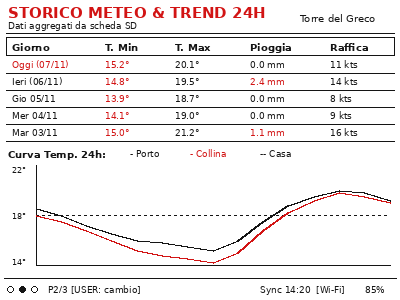
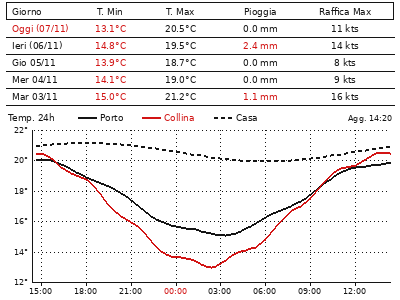
docs(readme): describe the Torre del Greco fork and redraw the history mockup
Rewrite the README intro for esp32-weather-epd-it80059: the two local
stations (Collina, Porto), the three pages, SD logging, the refresh
cycle, a quick start for the NM-EPD-420 and credits.
Point the setup guide at secrets.h for WiFi and the OWM key.

Regenerate screen1_history.png from the firmware's current layout:
no header or status bar, full-screen 24 h chart with hour axis and
the Porto, Collina and indoor lines.

diff --git a/mock_ui/preview_new_screens.py b/mock_ui/preview_new_screens.py
@@ -138,78 +138,131 @@ def render_screen0():
     img.save("mock_ui/screen0_dashboard.png")
     print("Generated mock_ui/screen0_dashboard.png")
 
+def _trend_line(draw, x0, y0, x1, y1, color, dash_on=0, dash_off=0, phase=0):
+    """2 px line, optionally dashed, mirroring drawTrendLine() in renderer.cpp."""
+    dx, dy = x1 - x0, y1 - y0
+    steps = max(abs(dx), abs(dy))
+    for k in range(steps + 1):
+        x = x0 + (dx * k) // steps if steps else x0
+        y = y0 + (dy * k) // steps if steps else y0
+        on = True
+        if dash_on > 0:
+            on = (phase % (dash_on + dash_off)) < dash_on
+            if k < steps:
+                phase += 1
+        if on:
+            draw.point([(x, y), (x, y + 1)], fill=color)
+    return phase
+
 def render_screen1():
+    """History page as drawn by drawScreen1_History(): no header or status
+    bar, table on top, full-width 24 h chart with an hour axis."""
     img = Image.new("RGB", (W, H), WHITE)
     draw = ImageDraw.Draw(img)
     fonts = get_fonts()
+    f6, f5 = fonts["small"], fonts["tiny"]
 
-    # Header
-    draw.text((8, 4), "STORICO METEO & TREND 24H", fill=RED, font=fonts["title"])
-    draw.text((8, 20), "Dati aggregati da scheda SD", fill=BLACK, font=fonts["small"])
-    draw.text((W - 100, 12), "Torre del Greco", fill=BLACK, font=fonts["sub"])
-    draw.line([(6, 33), (W - 6, 33)], fill=BLACK, width=1)
-
-    # Table
-    draw.rectangle([6, 37, 394, 55], outline=BLACK)
-    draw.text((12, 41), "Giorno", fill=BLACK, font=fonts["bold_sm"])
-    draw.text((105, 41), "T. Min", fill=BLACK, font=fonts["bold_sm"])
-    draw.text((175, 41), "T. Max", fill=BLACK, font=fonts["bold_sm"])
-    draw.text((250, 41), "Pioggia", fill=BLACK, font=fonts["bold_sm"])
-    draw.text((330, 41), "Raffica", fill=BLACK, font=fonts["bold_sm"])
+    # 1. Table (y = 2 to 107); text y values are baselines, as in the firmware
+    draw.rectangle([6, 2, 393, 19], outline=BLACK)
+    draw.text((12, 15), "Giorno", fill=BLACK, font=f6, anchor="ls")
+    for x, t in ((110, "T. Min"), (180, "T. Max"), (260, "Pioggia"), (345, "Raffica Max")):
+        draw.text((x, 15), t, fill=BLACK, font=f6, anchor="ms")
 
     rows = [
-        ("Oggi (07/11)", "15.2°", "20.1°", "0.0 mm", "11 kts", True),
-        ("Ieri (06/11)", "14.8°", "19.5°", "2.4 mm", "14 kts", False),
-        ("Gio 05/11", "13.9°", "18.7°", "0.0 mm", "8 kts", False),
-        ("Mer 04/11", "14.1°", "19.0°", "0.0 mm", "9 kts", False),
-        ("Mar 03/11", "15.0°", "21.2°", "1.1 mm", "16 kts", False),
+        ("Oggi (07/11)", 13.1, 20.5, 0.0, 11),
+        ("Ieri (06/11)", 14.8, 19.5, 2.4, 14),
+        ("Gio 05/11", 13.9, 18.7, 0.0, 8),
+        ("Mer 04/11", 14.1, 19.0, 0.0, 9),
+        ("Mar 03/11", 15.0, 21.2, 1.1, 16),
     ]
+    row_y = 20
+    for i, (day, tmin, tmax, rain, gust) in enumerate(rows):
+        by = row_y + 12
+        draw.text((12, by), day, fill=RED if i == 0 else BLACK, font=f6, anchor="ls")
+        draw.text((110, by), f"{tmin:.1f}°C", fill=RED, font=f6, anchor="ms")
+        draw.text((180, by), f"{tmax:.1f}°C", fill=BLACK, font=f6, anchor="ms")
+        draw.text((260, by), f"{rain:.1f} mm", fill=RED if rain > 0 else BLACK, font=f6, anchor="ms")
+        draw.text((345, by), f"{gust} kts", fill=BLACK, font=f6, anchor="ms")
+        draw.line([(6, row_y + 17), (394, row_y + 17)], fill=BLACK)
+        row_y += 17
 
-    y = 57
-    for day, tmin, tmax, rain, wind, is_today in rows:
-        draw.line([(6, y + 16), (394, y + 16)], fill=BLACK, width=1)
-        draw.text((12, y + 2), day, fill=RED if is_today else BLACK, font=fonts["small"])
-        draw.text((105, y + 2), tmin, fill=RED, font=fonts["small"])
-        draw.text((175, y + 2), tmax, fill=BLACK, font=fonts["small"])
-        draw.text((250, y + 2), rain, fill=RED if rain != "0.0 mm" else BLACK, font=fonts["small"])
-        draw.text((330, y + 2), wind, fill=BLACK, font=fonts["small"])
-        y += 17
+    # 2. Legend + sync time (the status bar is hidden on this page)
+    leg_y = 121
+    lx = 8
+    draw.text((lx, leg_y), "Temp. 24h", fill=BLACK, font=f6, anchor="ls")
+    lx += 70
+    _trend_line(draw, lx, leg_y - 4, lx + 18, leg_y - 4, BLACK)
+    draw.text((lx + 22, leg_y), "Porto", fill=BLACK, font=f6, anchor="ls")
+    lx += 64
+    _trend_line(draw, lx, leg_y - 4, lx + 18, leg_y - 4, RED)
+    draw.text((lx + 22, leg_y), "Collina", fill=RED, font=f6, anchor="ls")
+    lx += 72
+    _trend_line(draw, lx, leg_y - 4, lx + 18, leg_y - 4, BLACK, 4, 3)
+    draw.text((lx + 22, leg_y), "Casa", fill=BLACK, font=f6, anchor="ls")
+    draw.text((W - 8, leg_y), "Agg. 14:20", fill=BLACK, font=f5, anchor="rs")
 
-    # 24h Graph
-    draw.text((8, 148), "Curva Temp. 24h:", fill=BLACK, font=fonts["bold_sm"])
-    draw.text((130, 148), "- Porto", fill=BLACK, font=fonts["small"])
-    draw.text((190, 148), "- Collina", fill=RED, font=fonts["small"])
-    draw.text((260, 148), "-- Casa", fill=BLACK, font=fonts["small"])
+    # 3. 24 h chart: 72 samples every 20 min, ending at 14:20
+    gx0, gx1, gy0, gy1 = 32, 390, 130, 282
+    end_min = 14 * 60 + 20
+    start_min = end_min - 24 * 60
+    times = [start_min + 20 * (i + 1) for i in range(72)]
 
-    gx0, gy0, gx1, gy1 = 36, 165, 390, 265
-    draw.line([(gx0, gy1), (gx1, gy1)], fill=BLACK, width=1)
-    draw.line([(gx0, gy0), (gx0, gy1)], fill=BLACK, width=1)
+    def diurnal(t, mean, amp, peak_h=14.5):
+        h = (t / 60.0) % 24
+        return mean + amp * math.cos((h - peak_h) / 24.0 * 2 * math.pi)
 
-    draw.text((12, gy0), "22°", fill=BLACK, font=fonts["tiny"])
-    draw.text((12, (gy0+gy1)//2 - 4), "18°", fill=BLACK, font=fonts["tiny"])
-    draw.text((12, gy1 - 8), "14°", fill=BLACK, font=fonts["tiny"])
+    porto = [diurnal(t, 17.6, 2.4) + 0.15 * math.sin(t / 47.0) for t in times]
+    collina = [diurnal(t, 16.8, 3.6, 14.0) + 0.2 * math.sin(t / 31.0) for t in times]
+    casa = [diurnal(t, 20.6, 0.6, 18.0) for t in times]
+    series = [(porto, BLACK, 0, 0), (collina, RED, 0, 0), (casa, BLACK, 4, 3)]
 
-    # Dotted mid line
-    mid_y = (gy0 + gy1) // 2
-    for x in range(gx0, gx1, 6):
-        draw.line([(x, mid_y), (x + 2, mid_y)], fill=BLACK, width=1)
+    vals = porto + collina + casa
+    v_min, v_max = min(vals), max(vals)
+    span = v_max - v_min
+    step = 1 if span <= 5 else 2 if span <= 12 else 5 if span <= 28 else 10
+    g_min = math.floor((v_min - 0.5) / step) * step
+    g_max = math.ceil((v_max + 0.5) / step) * step
 
-    # Simulated curve
-    pts_porto = [18.5, 18.0, 17.2, 16.5, 16.0, 15.8, 15.5, 15.2, 16.0, 17.5, 18.8, 19.5, 20.0, 19.8, 19.2]
-    pts_collina = [18.0, 17.5, 16.8, 16.0, 15.2, 14.8, 14.5, 14.2, 15.0, 16.8, 18.2, 19.2, 19.8, 19.5, 19.0]
-    n = len(pts_porto)
-    step = (gx1 - gx0) / (n - 1)
+    def x_of(t):
+        return gx0 + int((t - start_min) * (gx1 - gx0) / (end_min - start_min))
 
-    def to_y(val):
-        return int(gy1 - ((val - 14.0) / (22.0 - 14.0)) * (gy1 - gy0))
+    def y_of(v):
+        y = gy1 - round((v - g_min) / (g_max - g_min) * (gy1 - gy0))
+        return max(gy0, min(gy1, y))
 
-    for i in range(n - 1):
-        x_a = int(gx0 + i * step)
-        x_b = int(gx0 + (i + 1) * step)
-        draw.line([(x_a, to_y(pts_porto[i])), (x_b, to_y(pts_porto[i+1]))], fill=BLACK, width=2)
-        draw.line([(x_a, to_y(pts_collina[i])), (x_b, to_y(pts_collina[i+1]))], fill=RED, width=2)
+    # Horizontal grid + temperature labels
+    v = g_min
+    while v <= g_max + 0.01:
+        y = y_of(v)
+        draw.text((gx0 - 4, y + 3), f"{v:.0f}°", fill=BLACK, font=f5, anchor="rs")
+        if y != gy1:
+            for x in range(gx0 + 2, gx1, 4):
+                draw.point((x, y), fill=BLACK)
+        v += step
 
-    draw_status_bar(draw, fonts, page=1, is_offline=False)
+    # Vertical grid + hour labels every 3 hours, midnight in red
+    for hm in range((start_min // 60 + 1) * 60, end_min + 1, 60):
+        hour = (hm // 60) % 24
+        if hour % 3:
+            continue
+        x = x_of(hm)
+        for y in range(gy0, gy1, 4):
+            draw.point((x, y), fill=BLACK)
+        draw.line([(x, gy1), (x, gy1 + 3)], fill=BLACK)
+        lbl = f"{hour:02d}:00"
+        lbl_x = min(x, W - 2 - int(draw.textlength(lbl, font=f5)) // 2)
+        draw.text((lbl_x, H - 6), lbl, fill=RED if hour == 0 else BLACK, font=f5, anchor="ms")
+
+    # Axes
+    draw.line([(gx0, gy1), (gx1, gy1)], fill=BLACK)
+    draw.line([(gx0, gy0), (gx0, gy1)], fill=BLACK)
+
+    for data, color, d_on, d_off in series:
+        ph = 0
+        for i in range(1, len(times)):
+            ph = _trend_line(draw, x_of(times[i - 1]), y_of(data[i - 1]),
+                             x_of(times[i]), y_of(data[i]), color, d_on, d_off, ph)
+
     img.save("mock_ui/screen1_history.png")
     print("Generated mock_ui/screen1_history.png")
 

diff --git a/README.md b/README.md
@@ -1,43 +1,86 @@
-# ESP32 E-Paper Weather Display
+# esp32-weather-epd-it80059
 
-A low-power weather display using a WiFi-enabled ESP32 microcontroller and an E-Paper display. Weather data is fetched from the OpenWeatherMap API, and an onboard sensor provides indoor temperature and humidity.
+A local weather display for **Torre del Greco** (NA, Italy), built on an ESP32-S3 and a 4.2″ tri-color e-paper panel. The `80059` in the name is the town's postal code (CAP).
 
-This project now supports both the classic **7.5″** panels (800×480) and a new **4.2″ tri-color** layout (400×300). The smaller 4.2″ option offers a **significantly lower cost** while retaining the same rich weather information and similar visual experience thanks to a re-optimized UI layout.
+Generic weather displays show a forecast model's estimate for a grid cell. This one shows what is actually being measured in town: it reads two local weather stations, adds the on-board indoor sensor and the day's OpenWeatherMap forecast, and keeps a history of every reading on the SD card.
+
+The firmware targets the **[NM-EPD-420](https://rockbase.shop/products/nm-epd-420/)** board, and the interface is in Italian.
+
+## What It Does
+
+### Two local weather stations
+
+On every refresh the device collects the latest readings from two stations, which sit at different altitudes and give quite different readings:
+
+| Station | Where | What is read |
+|---|---|---|
+| **Collina** | Hillside, 154 m a.s.l. | Temperature (with daily min/max), feels-like, humidity, pressure, wind, gusts, rain today |
+| **Porto** | The pier, sea level | Temperature, humidity, pressure, wind speed, gusts and direction, rain today, solar radiation, UV index |
+
+
+Each reading uses the station's own observation time. If a station hasn't updated for more than 2 hours, its data is flagged as stale on screen. If a fetch fails, or returns placeholder or out-of-range values, the last good values are kept.
+
+Two other sources complete the picture:
+- **Indoor ("Casa"):** temperature and humidity from the board's AHT20 sensor.
+- **Today's forecast:** conditions, min/max, chance and amount of rain, max wind, sunrise and sunset, from the OpenWeatherMap One Call API.
+
+### Three ad-hoc pages
+
+A short press of the **BOOT** button cycles to the next page. This is instant: it redraws from the data in memory without turning on WiFi.
+
+| Page | Content |
+|---|---|
+| **1 – Dashboard** | Real-time readings from the indoor sensor and both stations, side by side with today's forecast, sunrise and sunset, solar radiation and UV |
+| **2 – History & 24 h trend** | A table of the past 4 days plus today (min/max temperature, rain, strongest gust), and a full-screen 24 h temperature chart with the Porto, Collina and indoor lines |
+| **3 – Nautical** | The Porto (pier) station: wind speed in knots and km/h, gusts, a compass with the wind direction and the Beaufort force, plus temperature, humidity, pressure, solar radiation, UV and rain |
 
 <p float="left">
-  <img src="showcase/assembled-demo-raleigh-front.jpg" />
-  <img src="showcase/assembled-demo-raleigh-side.jpg" width="49%" />
-  <img src="showcase/assembled-demo-raleigh-back.jpg" width="49%" />
-  <img src="showcase/assembled-demo-bottom-cover.jpg" width="49%" />
-  <img src="showcase/assembled-demo-bottom-cover-removed.jpg" width="49%" />
+  <img src="mock_ui/screen0_dashboard.png" width="32%" />
+  <img src="mock_ui/screen1_history.png" width="32%" />
+  <img src="mock_ui/screen2_nautical.png" width="32%" />
 </p>
 
-## Features
+*Layout mockups (400×300, sample data) generated with [`mock_ui/preview_new_screens.py`](mock_ui/preview_new_screens.py). The history page has no header or status bar, so the 24 h chart can use the full width and height of the screen, with the last sync time shown next to the legend.*
 
-- Ultra-low power consumption: ~14μA in sleep, ~83mA during refresh (~15s on 7.5″, ~10s on 4.2″ 3-color).
+### Readings stored on the SD card
 
-- Long battery life: 6-12 months on a 5000mAh battery with 30-minute update frequency.
+Every successful refresh is written to the micro-SD card:
 
-- **Dual display support**: 7.5″ high-resolution or cost-optimized 4.2″ tri-color e-paper.
+- **`/logs/meteo_YYYY_MM.csv`:** one row per refresh (every 20 minutes), one file per month. Columns:
+  ```
+  epoch,date_time,hill_temp,hill_hum,hill_pres,hill_wind,hill_gust,hill_rain,
+  port_temp,port_hum,port_wind,port_gust,port_deg,port_solar,port_uv,in_temp,in_hum
+  ```
+- **`/cache/latest.json`:** the last full state. It is used to redraw immediately after a power loss or reset.
 
-- Customizable display: Supports multiple languages, units, time/date formats, AQI scales, personalization options, and much more.
+The daily history table and the 24 h trend are rebuilt from the CSV log, so they survive reboots. You can also pull the card and analyse the data on a computer.
 
-- Easy recharging: USB-C charging with battery monitoring.
+### Refresh cycle and offline behaviour
 
-The hourly outlook graph (bottom right) shows a line indicating temperature and shaded bars indicating probability of precipitation (or optionally volume of precipitation).
+- The device wakes every **20 minutes**, aligned to the clock. It syncs the time over NTP, fetches both stations and the forecast, logs to SD, redraws, and goes back to deep sleep.
+- A **long press of BOOT** (more than 1.2 s) forces a full refresh.
+- If WiFi is unavailable, the screen keeps showing the cached data with an **OFFLINE** badge instead of an error page.
+- WiFi reconnects straight to the cached access point and channel to keep wake time short, with one retry using a longer timeout.
 
-Here are two (slightly outdated) examples utilizing various configuration options:
+## Quick Start (NM-EPD-420)
 
-<p float="left">
-  <img src="showcase/demo-new-york.jpg" width="49%" />
-  <img src="showcase/demo-london.jpg" width="49%" />
-</p>
+1. Copy [`platformio/include/secrets.h.example`](platformio/include/secrets.h.example) to `platformio/include/secrets.h` and fill in your WiFi SSID and password and your OpenWeatherMap API key. `secrets.h` is git-ignored.
+2. Insert a FAT32-formatted micro-SD card.
+3. Build and flash:
+   ```bash
+   cd platformio
+   pio run -e nm-epd-420 --target upload
+   ```
 
-The NM-EPD-420 working like below:
+The coordinates and timezone are already set for Torre del Greco. To adapt the project to another place you would need to change `LAT`/`LON` in [`config.cpp`](platformio/src/config.cpp) and the local station data sources.
 
-![NM-EPD-420 pcb](showcase/nm-epd-420-pcb.png)
+## Credits
 
-![NM-EPD-420 demo](showcase/nm-epd-420.png)
+This repository is a fork of **[lmarzen/esp32-weather-epd](https://github.com/lmarzen/esp32-weather-epd)**, by way of the RockBase fork that added support for the NM-EPD-420 board. The power management, e-paper drivers, fonts, icons and the original OpenWeatherMap layout all come from upstream and are still in the code.
+
+The sections below are the upstream project's documentation. They still apply to the hardware, wiring, build environment and troubleshooting.
+
+---
 
 ## Contents
 
@@ -227,9 +270,7 @@ PlatformIO for VSCode is used for managing dependencies, code compilation, and u
 
    - Important settings to configure in config.cpp:
 
-     - WiFi credentials (ssid, password).
-
-     - Open Weather Map API key (it's free, see next section for important notes about obtaining an API key).
+     - WiFi credentials and the Open Weather Map API key now live in `secrets.h` (copy `secrets.h.example`; see the [Quick Start](#quick-start-nm-epd-420)). The API key is free; see the next section for important notes about obtaining one.
 
      - Latitude and longitude.
 
